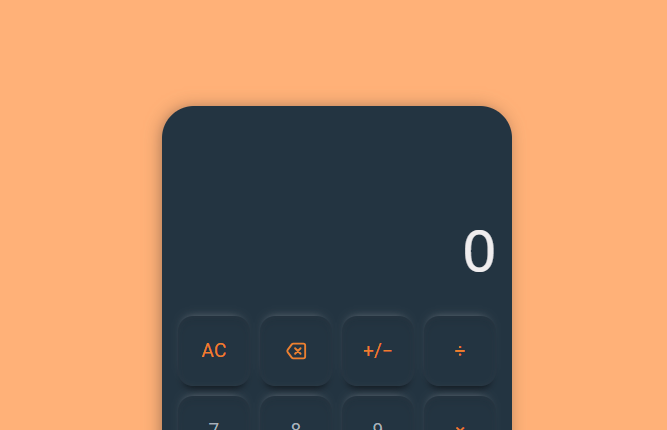
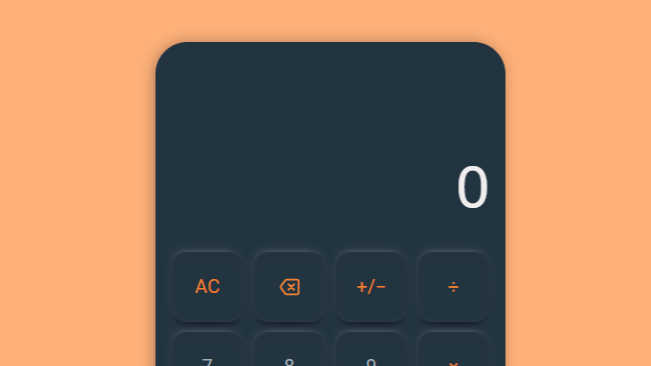
resize images, and add huaxia as a project

diff --git a/index.html b/index.html
@@ -65,7 +65,7 @@
             <h2>Projects</h2>
             <div class="projects-container">
                 <article class="project">
-                    <img src="./assets/calculator-screenshot.png" alt="calculator icon" class="left" />
+                    <img src="./assets/calculator-screenshot.png" alt="calculator icon" class="left">
                     <div class="right">
                         <h3>Calculator</h3>
                         <p>Plus, minus, times and divide!</p>
@@ -75,6 +75,18 @@
                             <a class="github" href="https://github.com/henrylin03/calculator" target="_blank"><i
                                     class="fa-brands fa-github fa-xl"
                                     alt="link to GitHub repository, where source code sits"></i></a>
+                        </div>
+                    </div>
+                </article>
+
+                <article class="project">
+                    <img src="./assets/huaxia-screenshot.png" alt="calculator icon" class="left" />
+                    <div class="right">
+                        <h3>Huaxia Chinese School</h3>
+                        <p>English site for a Chinese language school in Sydney.</p>
+                        <div class="links">
+                            <a class="live" href="https://huaxia.au" target="_blank"><i
+                                    class="fa-solid fa-arrow-up-right-from-square fa-lg" alt="live demo link"></i></a>
                         </div>
                     </div>
                 </article>

diff --git a/style.css b/style.css
@@ -108,9 +108,11 @@ a:hover {
 /* "Projects" section */
 .projects-container {
     display: flex;
+    flex-direction: column;
 }
 
 .project {
+    flex: 1;
     display: flex;
     align-items: center;
     width: 100%;
@@ -118,8 +120,9 @@ a:hover {
     gap: 5%;
 }
 
-.project .left {
+.project img {
     width: 55%;
+    object-fit: cover;
     border-radius: 15px
 }
 
